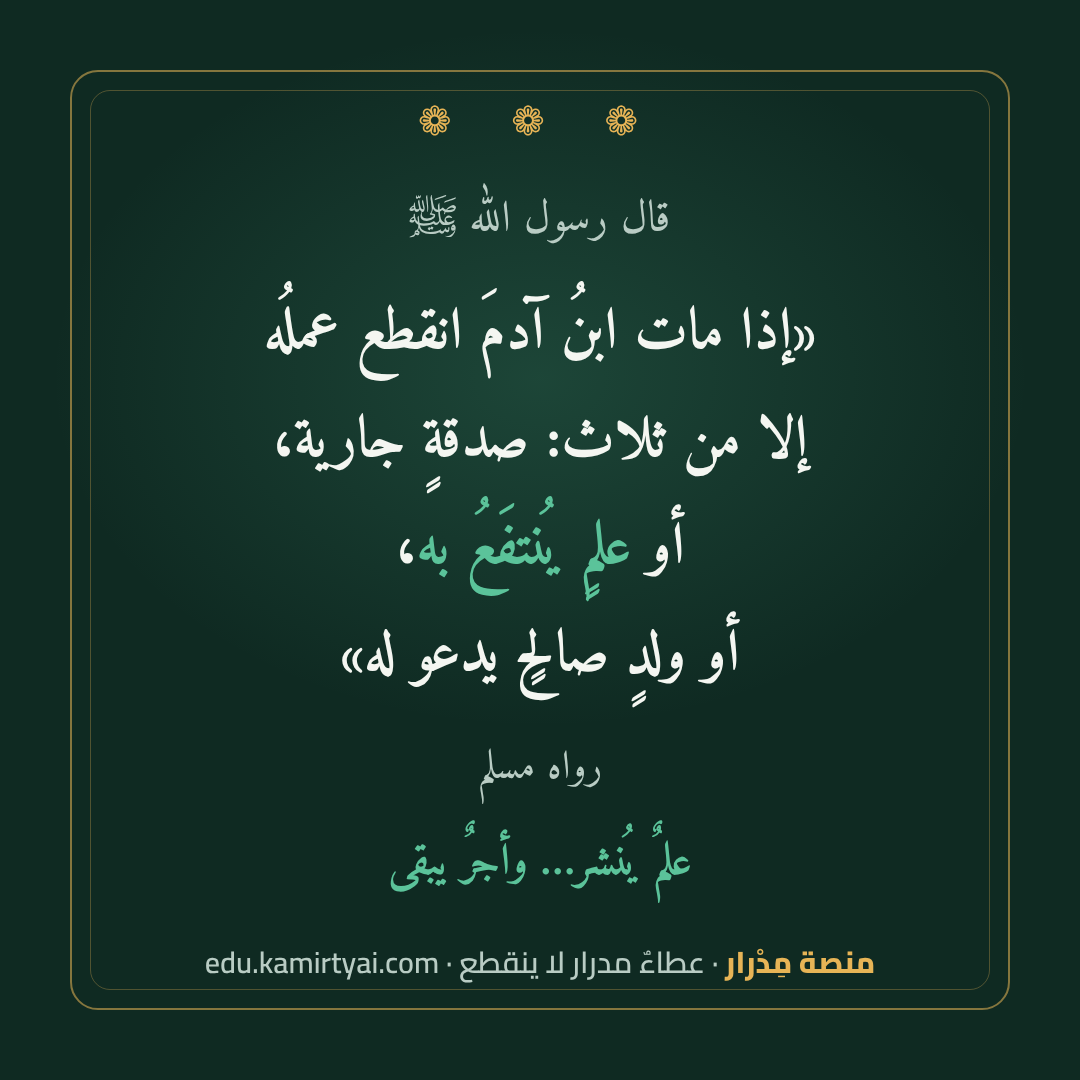
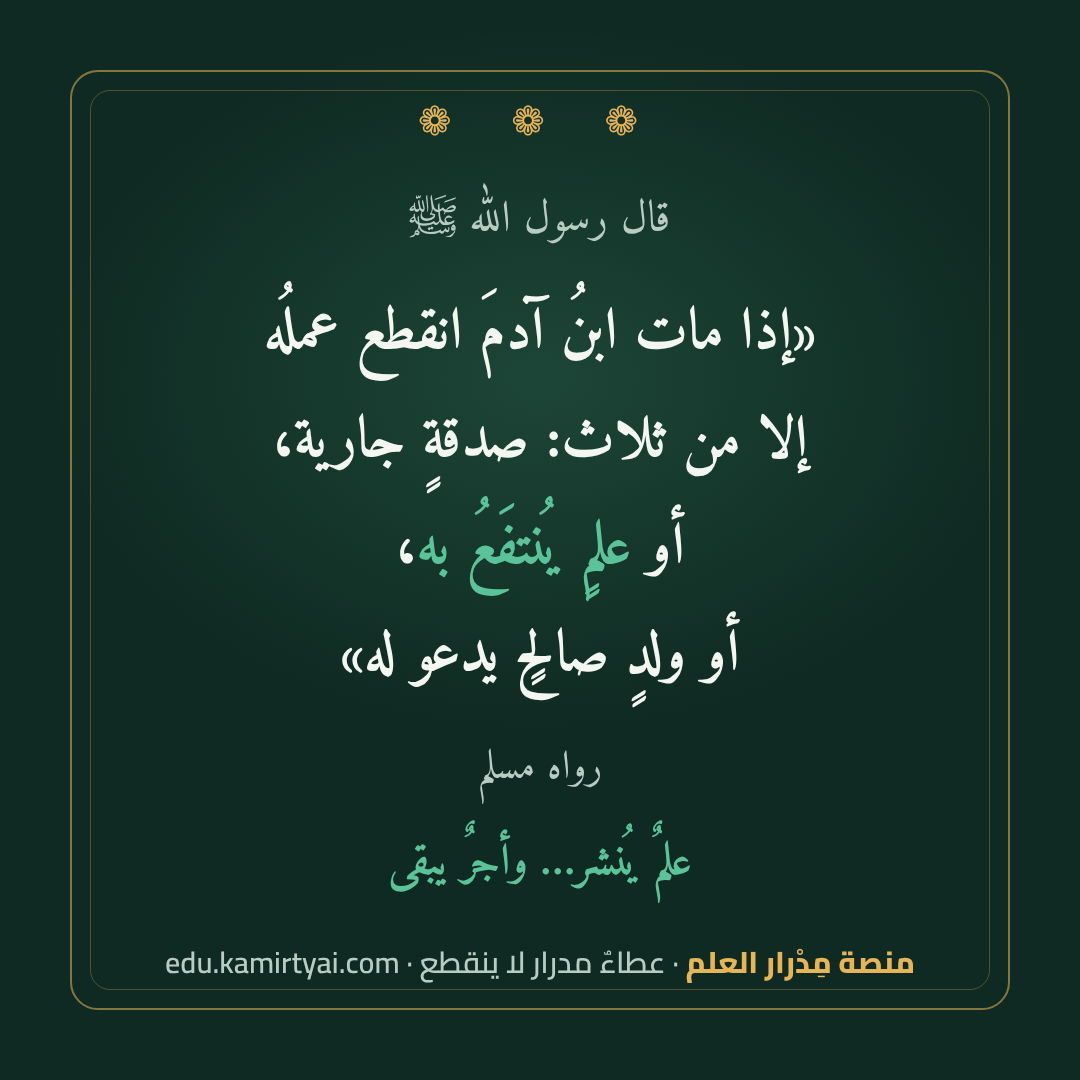
Rename platform to «منصة مِدْرار العلم»
Claude-Session: https://claude.ai/code/session_014YGcUyJyPRtAXsCSz1nsvG

Changed region(s): [[0.1528, 0.8861, 0.8556, 0.9167]]

diff --git a/ataa-platform/index.html b/ataa-platform/index.html
@@ -3,10 +3,10 @@
 <head>
   <meta charset="utf-8">
   <meta name="viewport" content="width=device-width, initial-scale=1, viewport-fit=cover">
-  <title>منصة مِدْرار</title>
+  <title>منصة مِدْرار العلم</title>
   <meta name="description" content="علمٌ يُنشر… وأجرٌ يبقى. حصص مجانية مباشرة يقدّمها معلمون متطوعون. اختر صفك وادخل الحصة بدون تسجيل.">
   <meta name="theme-color" content="#1D5C4A">
-  <meta property="og:title" content="منصة مِدْرار">
+  <meta property="og:title" content="منصة مِدْرار العلم">
   <meta property="og:description" content="علمٌ يُنشر… وأجرٌ يبقى. حصص مجانية مباشرة يقدّمها معلمون متطوعون.">
   <meta http-equiv="Content-Security-Policy" content="default-src 'self'; script-src 'self'; style-src 'self' 'unsafe-inline' https://fonts.googleapis.com; font-src 'self' https://fonts.gstatic.com; img-src 'self' data: https://i.ytimg.com https://*.googleusercontent.com; frame-src https://www.youtube-nocookie.com https://www.youtube.com; connect-src 'self' https://*.supabase.co wss://*.supabase.co; base-uri 'self'; form-action 'self'">
   <meta name="referrer" content="strict-origin-when-cross-origin">
@@ -22,7 +22,7 @@
     <div class="topbar-in">
       <a class="brand" href="#/" id="brand">
         <svg class="brand-mark" viewBox="0 0 32 32" aria-hidden="true"><rect x="3" y="6" width="26" height="20" rx="3" fill="currentColor"/><path d="M9 13h14M9 18h9" stroke="var(--board-ink)" stroke-width="2.4" stroke-linecap="round"/></svg>
-        <span id="brand-name">منصة مِدْرار</span>
+        <span id="brand-name">منصة مِدْرار العلم</span>
       </a>
       <nav class="nav" aria-label="القائمة الرئيسية">
         <a href="#/" data-nav="home">الجدول</a>
@@ -37,7 +37,7 @@
     <p class="loading">جارٍ التحميل…</p>
   </main>
   <footer class="foot wrap">
-    <p><b id="foot-name">منصة مِدْرار</b> — تعليم مجاني يقدّمه معلمون متطوعون. لا رسوم ولا إعلانات.</p>
+    <p><b id="foot-name">منصة مِدْرار العلم</b> — تعليم مجاني يقدّمه معلمون متطوعون. لا رسوم ولا إعلانات.</p>
     <p class="foot-links"><a href="#/guide">دليل المعلم</a> · <a href="#/about">الميثاق والخصوصية</a> · <a href="#/dashboard">دخول المعلمين</a></p>
   </footer>
   <div class="toasts" id="toasts" role="status" aria-live="polite"></div>

diff --git a/ataa-platform/marketing/teaser.html b/ataa-platform/marketing/teaser.html
@@ -39,7 +39,7 @@ body{width:1920px;height:1080px;overflow:hidden;font-family:Cairo,sans-serif;bac
 <div class="bg"></div><div class="grid"></div>
 <div class="wrap">
  <div class="left">
-  <div class="brand"><div class="mark"><svg width="40" height="40" viewBox="0 0 32 32"><rect x="3" y="6" width="26" height="20" rx="3" fill="#0F2A22"/><path d="M9 13h14M9 18h9" stroke="#5BC39A" stroke-width="2.6" stroke-linecap="round"/></svg></div>منصة مِدْرار</div>
+  <div class="brand"><div class="mark"><svg width="40" height="40" viewBox="0 0 32 32"><rect x="3" y="6" width="26" height="20" rx="3" fill="#0F2A22"/><path d="M9 13h14M9 18h9" stroke="#5BC39A" stroke-width="2.6" stroke-linecap="round"/></svg></div>منصة مِدْرار العلم</div>
   <div class="soon">قريباً</div>
   <div class="tag">حصص مجانية مباشرة<br>يقدّمها معلمون متطوعون</div>
   <div class="sub"><b style="color:#E7B456">علمٌ يُنشر… وأجرٌ يبقى.</b><br>اختر صفّك، واختر معلمك، وادخل الحصة بدون حساب. وإن فاتتك، فالتسجيل بانتظارك.</div>

diff --git a/ataa-platform/marketing/hadith.html b/ataa-platform/marketing/hadith.html
@@ -20,5 +20,5 @@ background-image:radial-gradient(700px 500px at 50% 35%,rgba(91,195,154,.18),tra
 <div class="q">«إذا مات ابنُ آدمَ انقطع عملُه<br>إلا من ثلاث: صدقةٍ جارية،<br>أو <b>علمٍ يُنتفَعُ به</b>،<br>أو ولدٍ صالحٍ يدعو له»</div>
 <div class="src">رواه مسلم</div>
 <div class="say" style="color:#5BC39A;font-weight:700">علمٌ يُنشر… وأجرٌ يبقى</div>
-<div class="brand">منصة مِدْرار <span>· عطاءٌ مدرار لا ينقطع · edu.kamirtyai.com</span></div>
+<div class="brand">منصة مِدْرار العلم <span>· عطاءٌ مدرار لا ينقطع · edu.kamirtyai.com</span></div>
 </div></div></body></html>

diff --git a/ataa-platform/assets/app.js b/ataa-platform/assets/app.js
@@ -1,5 +1,5 @@
 /* =====================================================================
-   منصة مِدْرار — واجهة المستخدم
+   منصة مِدْرار العلم — واجهة المستخدم
    صفحة واحدة بروابط (#/...) بدون أي إطار عمل، لتبقى خفيفة على الهواتف.
    ===================================================================== */
 (function () {

diff --git a/ataa-platform/assets/config.js b/ataa-platform/assets/config.js
@@ -3,7 +3,7 @@
    ===================================================================== */
 window.APP_CONFIG = {
   // اسم المنصة ووصفها القصير
-  SITE_NAME: 'منصة مِدْرار',
+  SITE_NAME: 'منصة مِدْرار العلم',
   SITE_TAGLINE: 'حصص مجانية مباشرة يقدّمها معلمون متطوعون',
   SITE_MOTTO: 'علمٌ يُنشر… وأجرٌ يبقى',
 

diff --git a/ataa-platform/README.md b/ataa-platform/README.md
@@ -1,4 +1,4 @@
-# منصة مِدْرار — دليل التشغيل والنشر
+# منصة مِدْرار العلم — دليل التشغيل والنشر
 
 منصة مجانية بالكامل لجدول حصص مباشرة يقدّمها معلمون متطوعون:
 
